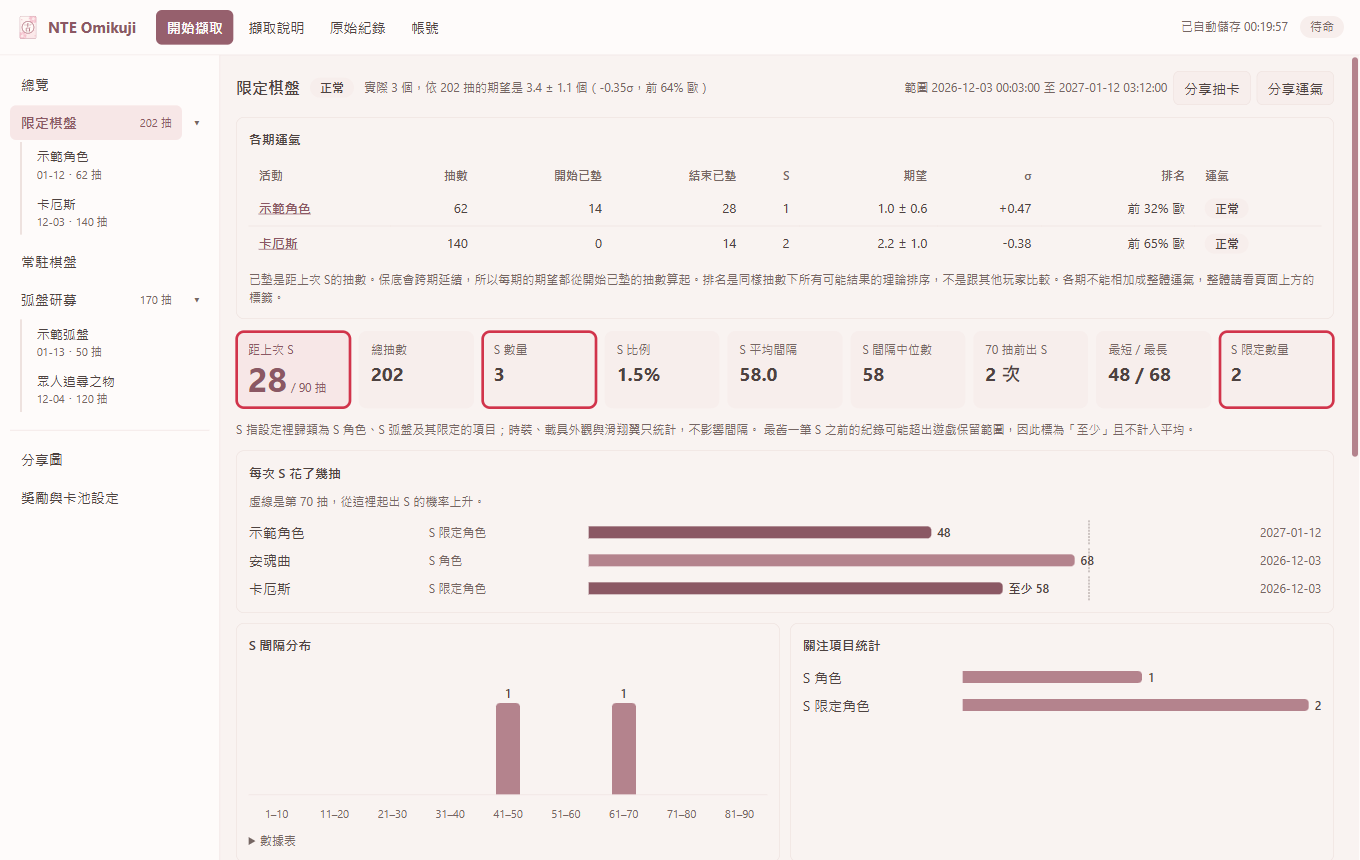
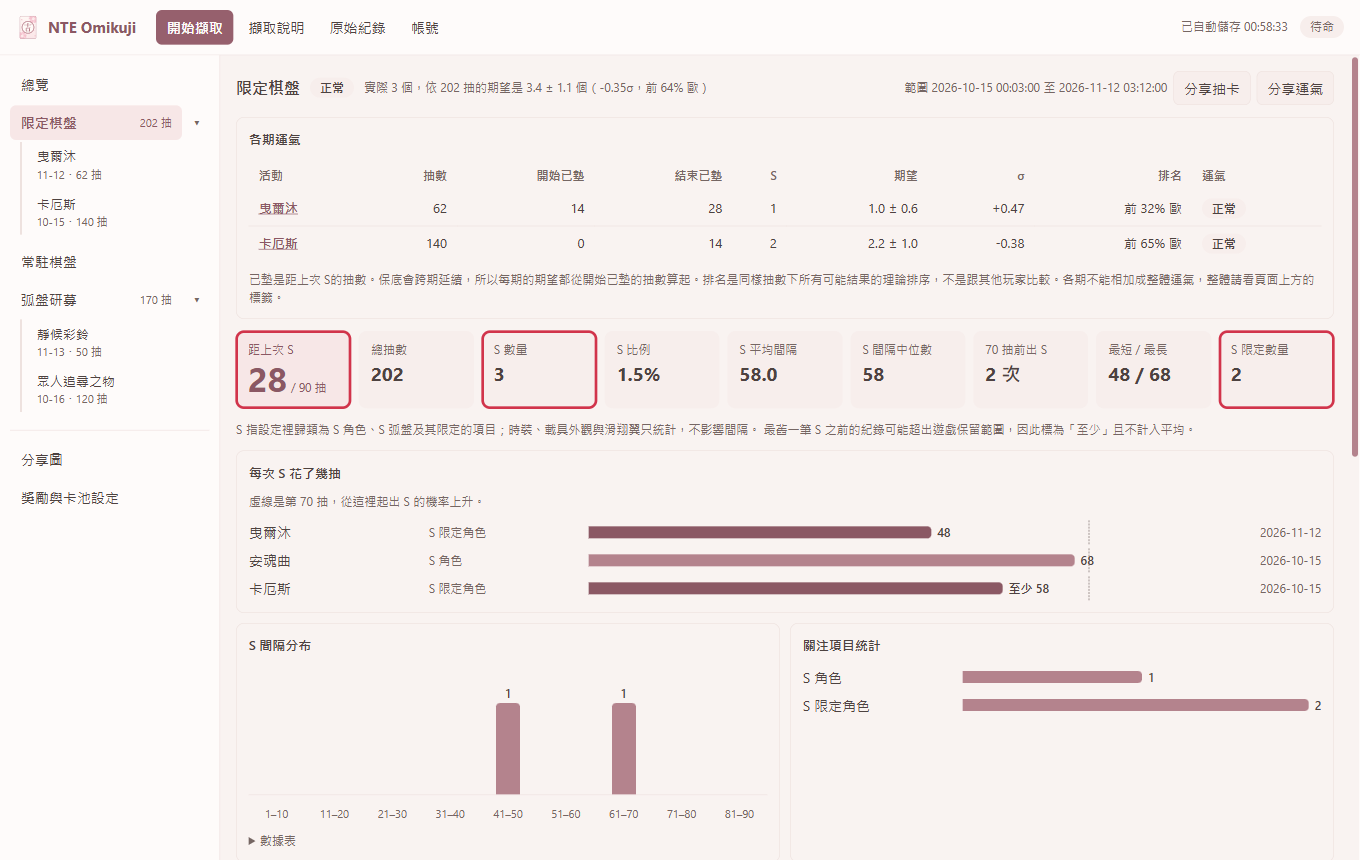
Use Elyms and Echoes on Hold in the update walkthrough
Version 1.5 is not open yet, so the pulls are simulated and the IDs are placeholders. The README says so, and readers should use the IDs the app lists.

diff --git a/README.md b/README.md
@@ -58,30 +58,32 @@ README 裡的畫面都使用模擬資料。
 
 ### 實際演示：遊戲推出新活動
 
-以下用程式實際操作一次，紅框是為了說明才加上的。情境是虛構的：遊戲推出新一期活動，你抽到了新角色 `1099` 和新弧盤 `fork_DemoStar`，而程式和對應表都還不認識它們。
+以下用程式實際操作一次，以 1.5 版的曳爾沐和她的弧盤靜候彩鈴為例。紅框和「只顯示這兩列」都是為了說明才加上的。
+
+> 撰寫時 1.5 版還沒開放，**抽卡紀錄是模擬的，`1090`、`fork_EchoesOnHold`、`Lottery_Elyms`、`ForkLottery_Elyms` 這些 ID 也是假設的**。實際操作時，請以程式列出來的 ID 為準。
 
 **1. 先看哪裡不對**
 
-重新擷取後，紀錄不會遺失，但新角色還不算 S。畫面上方會提醒有活動沒設定，各期運氣顯示「無法判定」，距上次 S 也還在累加。
+重新擷取後，紀錄不會遺失，但曳爾沐還不算 S。畫面上方會提醒有活動沒設定，各期運氣顯示「無法判定」，距上次 S 也還在累加。
 
-![改版後的限定棋盤：活動未設定，新角色還沒計入 S](docs/images/update-before.png)
+![改版後的限定棋盤：活動未設定，曳爾沐還沒計入 S](docs/images/update-before.png)
 
 **2. 補上新獎勵**
 
 按提醒裡的 **前往設定**，或開啟 **獎勵與卡池設定** 的 **獎勵** 分頁。沒有對應的獎勵會排在最上面，並標示「未對應」。
 
-![獎勵分頁：新獎勵排在最上面並標示未對應](docs/images/update-rewards-unmapped.png)
+![獎勵分頁：曳爾沐和靜候彩鈴排在最上面並標示未對應](docs/images/update-rewards-unmapped.png)
 
 在該列直接填寫，改完就會存檔：
 
-| 欄位 | `1099` 填 | `fork_DemoStar` 填 | 從哪裡看 |
+| 欄位 | `1090` 填 | `fork_EchoesOnHold` 填 | 從哪裡看 |
 | --- | --- | --- | --- |
-| 中文、英文 | 示範角色、Demo Hero | 示範弧盤、Demo Arc | 遊戲內的名稱 |
+| 中文、英文 | 曳爾沐、Elyms | 靜候彩鈴、Echoes on Hold | 遊戲內的名稱 |
 | 類型 | `character` | `arc` | 角色或弧盤 |
 | 稀有 | `S` | `S` | 遊戲內的稀有度 |
 | 關注類別 | 不用改 | 不用改 | 填好類型和稀有度後，會自動變成 S 角色、S 弧盤 |
 
-![獎勵填好後，關注類別自動變成 S 角色和 S 弧盤](docs/images/update-rewards-filled.png)
+![曳爾沐和靜候彩鈴填好後，關注類別自動變成 S 角色和 S 弧盤](docs/images/update-rewards-filled.png)
 
 **3. 設定這期的限定大獎**
 
@@ -89,7 +91,7 @@ README 裡的畫面都使用模擬資料。
 
 ![活動卡池分頁：新活動標示未設定](docs/images/update-events-unset.png)
 
-在 **限定大獎** 欄填這期主打獎勵的 ID。棋盤填 `1099`，弧盤填 `fork_DemoStar`。有多個時用分號隔開，第一個會當作活動名稱。先做完第 2 步，名稱才會顯示出來；否則會顯示「對應表找不到」。
+在 **限定大獎** 欄填這期主打獎勵的 ID。棋盤填 `1090`，弧盤填 `fork_EchoesOnHold`。有多個時用分號隔開，第一個會當作活動名稱。先做完第 2 步，名稱才會顯示出來；否則會顯示「對應表找不到」。
 
 ![限定大獎填好後，名稱欄顯示獎勵名稱](docs/images/update-events-set.png)
 
@@ -104,21 +106,23 @@ README 裡的畫面都使用模擬資料。
 | S 限定數量 | 1 | 2 |
 | 這期的運氣 | 無法判定 | 正常（+0.47σ） |
 
-![修改後的限定棋盤：提醒消失，新角色計入 S 和限定](docs/images/update-after.png)
+![修改後的限定棋盤：提醒消失，曳爾沐計入 S 和限定](docs/images/update-after.png)
 
 改錯了可以按 **復原**。以上改動都存在 `mappings` 資料夾，用 Excel 或文字編輯器直接改也可以：
 
 ```csv
 # mappings\rewards.csv：id,type,rank,focus,name.zh-hant,name.en
-1099,character,S,,示範角色,Demo Hero
-fork_DemoStar,arc,S,,示範弧盤,Demo Arc
+1090,character,S,,曳爾沐,Elyms
+fork_EchoesOnHold,arc,S,,靜候彩鈴,Echoes on Hold
 
 # mappings\events.csv：id,featured
-Lottery_Demo,1099
-ForkLottery_Demo,fork_DemoStar
+Lottery_Elyms,1090
+ForkLottery_Elyms,fork_EchoesOnHold
 ```
 
 上面的 `#` 開頭只是說明，不要寫進檔案。欄位順序以檔案第一行為準，少填的欄位留空。
+
+`mappings\schedule.csv` 裡曳爾沐和靜候彩鈴的兩列（`1.5-1-board-elyms`、`1.5-1-arc-elyms`）已經有名稱和期間，只差 `event_id`。擷取到實際的活動 ID 後，可以順手填上。
 
 ### 把維護成果分享給別人
 
